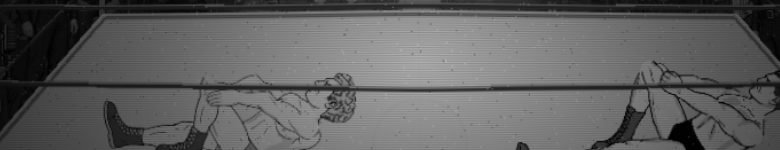
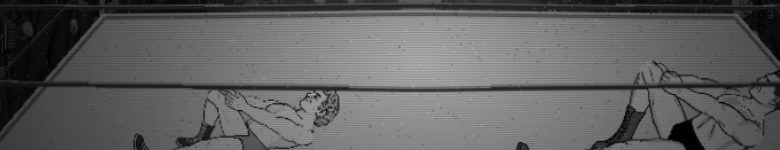
G3 package: refilm with george-roster-v1 (old George retired); WFM_GEORGE cast override; viewer

Changed region(s): [[0.1231, 0.48, 0.4615, 1.0], [0.3077, 0.5067, 0.3385, 0.5333], [0.2769, 0.5333, 0.3077, 0.56]]

diff --git a/research/animation/aftermath-g3/viewer.html b/research/animation/aftermath-g3/viewer.html
@@ -1,0 +1,17 @@
+<!doctype html><meta charset=utf-8><title>G3 aftermath: off vs on</title>
+<style>body{background:#111;color:#ddd;font:14px system-ui;margin:16px}select,input{margin:0 8px}img{width:49%;vertical-align:top}.row{display:flex;gap:4px}h3{margin:6px 0}</style>
+<div>Scenario <select id=sc><option>suplex<option>suplexReverse<option>figureFour<option>figureFourP2</select>
+Frame <input id=f type=range min=0 max=114 value=0 style="width:50%"> <b id=n>0</b>
+<button id=p>play</button> <small>(← → keys step)</small></div>
+<div class=row><div style="width:50%"><h3>OFF (today)</h3><img id=a style="width:100%"></div><div style="width:50%"><h3>ON (?aftermath=v2)</h3><img id=b style="width:100%"></div></div>
+<h3>Clutch stills</h3><div id=st></div>
+<script>
+const $=i=>document.getElementById(i);let t=null;
+function show(){const n=String($('f').value).padStart(3,'0');$('n').textContent=n;
+$('a').src=`off/${$('sc').value}/${n}.jpg`;$('b').src=`on/${$('sc').value}/${n}.jpg`}
+$('f').oninput=show;$('sc').onchange=show;
+$('p').onclick=()=>{if(t){clearInterval(t);t=null;$('p').textContent='play'}else{$('p').textContent='stop';t=setInterval(()=>{$('f').value=(+$('f').value+1)%115;show()},170)}};
+onkeydown=e=>{if(e.key=='ArrowRight'){$('f').value=Math.min(114,+$('f').value+1);show()}if(e.key=='ArrowLeft'){$('f').value=Math.max(0,+$('f').value-1);show()}};
+$('st').innerHTML=['supine_f+1','supine_f-1','prone_f+1','prone_f-1','supine_f+1_afterRoll'].map(s=>`<div>${s}<br><img style="width:80%" src="clutch_stills/${s}.jpg"></div>`).join('');
+show();
+</script>

diff --git a/research/animation/aftermath-g3/README.md b/research/animation/aftermath-g3/README.md
@@ -3,14 +3,14 @@
 2026-10-23 · Claude (Sonnet) · branch `story/marigold-opening`
 
 Muted-footage frames, one JPEG per ~0.17 s wall-clock (`play.mjs` `WFM_SHOTS`), cropped
-`250,130,750,340`, `WFM_PROCREATE=1` (Procreate Lou). `off/` = today's game, `on/` = `?aftermath=v2`.
+`250,130,750,340`, `WFM_PROCREATE=1 WFM_GEORGE=george-roster-v1` (Procreate Lou and george-roster-v1; old George retired for this package). `off/` = today's game, `on/` = `?aftermath=v2`.
 Each runs from the move's trigger through the rise and a few seconds after. Frame timing is wall
 clock, so `off/NNN` and `on/NNN` are not the same game instant; compare the phases.
 
 - `off/<scenario>/NNN.jpg`, `on/<scenario>/NNN.jpg`: `suplex`, `suplexReverse`, `figureFour`, `figureFourP2`
 - `sheets/<scenario>_off_vs_on.jpg`: every 6th frame, off left / on right
 - `clutch_stills/`: the trapped-leg (`rLeg`) clutch at its hold, both facings, both lyings, and after a roll
-  (George left, Procreate Lou right, same facing for both seats)
+  (george-roster-v1 left, Procreate Lou right, same facing for both seats)
 
 **T4.2 (limb-aware clutch) is not behind the flag**, as the plan has it: the live figure four's clutch now
 goes to its trapped leg with or without `?aftermath=v2`. `off` therefore already shows T4.2. The flag adds only
